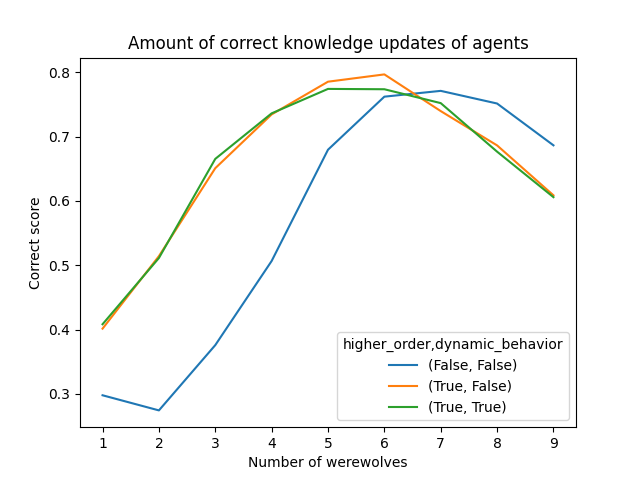
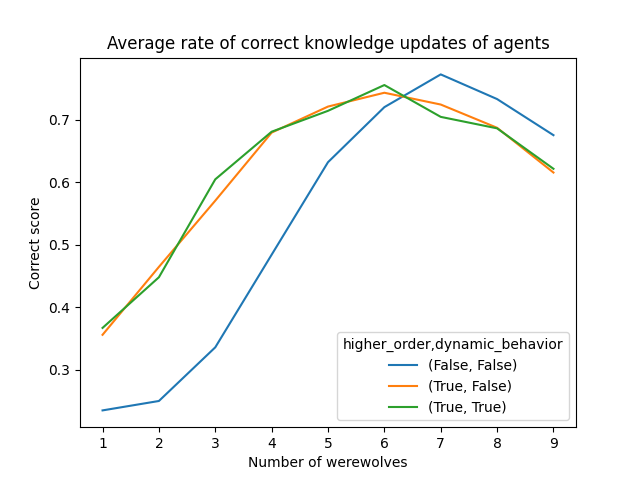
final results

diff --git a/plotting.py b/plotting.py
@@ -6,7 +6,7 @@ stats = pd.read_csv('stats.csv')
 # Plot winrate
 winrate = stats.pivot(index='n_werewolves', columns=['higher_order', 'dynamic_behavior'], values='winrate')
 winrate.plot()
-plt.title('Winrate of agents')
+plt.title('Average winrate of agents')
 plt.xlabel('Number of werewolves')
 plt.ylabel('Winrate')
 plt.savefig('winrate.png')
@@ -16,7 +16,7 @@ plt.clf()
 # Plot correct score
 correct_score = stats.pivot(index='n_werewolves', columns=['higher_order', 'dynamic_behavior'], values='correct_score')
 correct_score.plot()
-plt.title('Amount of correct knowledge updates of agents')
+plt.title('Average rate of correct knowledge updates of agents')
 plt.xlabel('Number of werewolves')
 plt.ylabel('Correct score') 
 plt.savefig('correct_score.png')
@@ -26,7 +26,7 @@ plt.clf()
 # Plot number of rounds
 n_rounds = stats.pivot(index='n_werewolves', columns=['higher_order', 'dynamic_behavior'], values='num_rounds')
 n_rounds.plot()
-plt.title('Number of rounds played by agents')
+plt.title('Average number of rounds played by agents')
 plt.xlabel('Number of werewolves')
 plt.ylabel('Number of rounds')
 plt.savefig('n_rounds.png')
